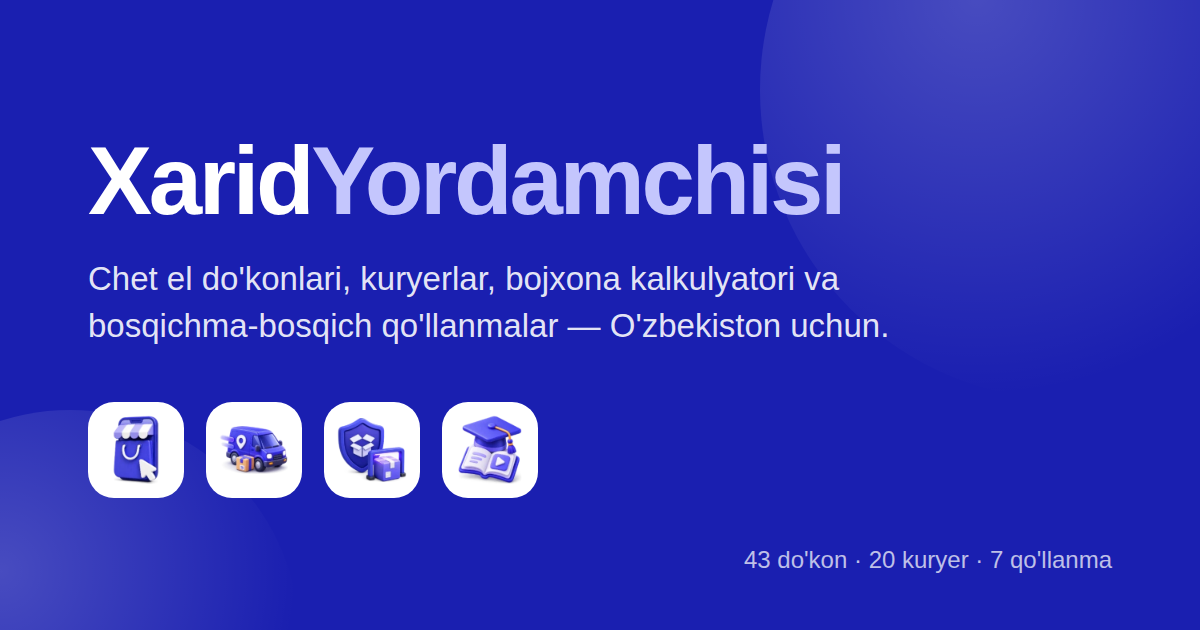
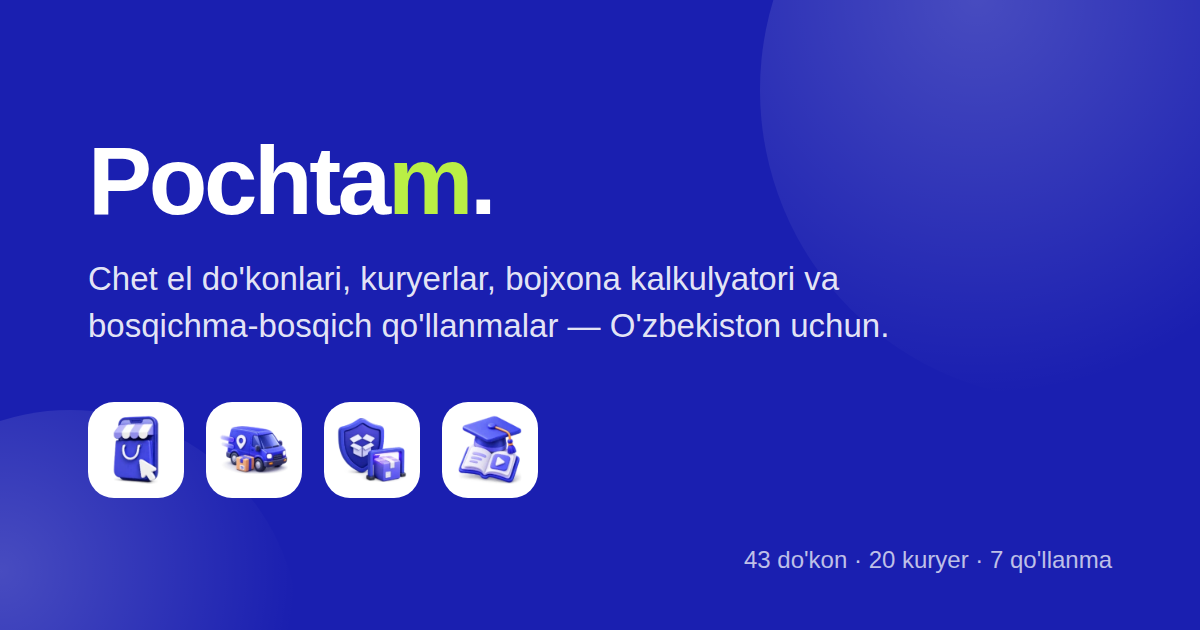
Ilova nomi hamma joyda Pochtam
Logotip "Pochtam." deb turgani holda, sarlavha, manifest, OG meta va
matnlarda eski nom qolgan edi. Endi hammasi bir xil:

  <title>, apple-mobile-web-app-title, og:site_name, og:title
  manifest.webmanifest (name va short_name)
  noscript va sozlamalardagi "Ilova haqida" matni
  xizmatlar ro'yxatidagi hamkorlik tavsifi
  qo'llanmalar sahifalari va ularning meta teglari (tools/seo.mjs)
  README, package.json, havola tekshiruvining user-agent i

OG muqovasidagi so'z-belgi logotipga moslandi: "Pochta" oq, "m" salat
(#BAEF45), nuqta oq — logotipdagi kabi.

Manba faylning nomiga (Xarid Yordamchisi v2.dc.html) tegilmadi: u
Claude Design loyihasining fayli va ilovada ko'rinmaydi.

Claude-Session: https://claude.ai/code/session_013YY2HjPmapjsnxB9N1S87s

Changed region(s): [[0.0617, 0.2111, 0.7092, 0.3619]]

diff --git a/Xarid Yordamchisi v2.dc.html b/Xarid Yordamchisi v2.dc.html
@@ -2,22 +2,22 @@
 <html lang="uz"><head>
 <meta charset="utf-8">
 <meta name="viewport" content="width=device-width, initial-scale=1, viewport-fit=cover, interactive-widget=resizes-content">
-<title>Xarid Yordamchisi — chetdan xarid qilish yo'riqnomasi</title>
+<title>Pochtam — chetdan xarid qilish yo'riqnomasi</title>
 <meta name="description" content="Chet el do'konlari, kuryerlar, bojxona kalkulyatori va bosqichma-bosqich qo'llanmalar — O'zbekiston uchun.">
 <meta name="theme-color" content="#1A1FB0">
 <meta name="apple-mobile-web-app-capable" content="yes">
 <meta name="mobile-web-app-capable" content="yes">
 <meta name="apple-mobile-web-app-status-bar-style" content="default">
-<meta name="apple-mobile-web-app-title" content="Xarid Yordamchisi">
+<meta name="apple-mobile-web-app-title" content="Pochtam">
 <meta name="format-detection" content="telephone=no">
 <link rel="icon" href="icons/icon-192.png" sizes="192x192">
 <link rel="apple-touch-icon" href="icons/apple-touch-icon.png">
 <link rel="canonical" href="https://nshakhobiddin.github.io/Pochtachi/">
 <meta property="og:type" content="website">
-<meta property="og:site_name" content="Xarid Yordamchisi">
+<meta property="og:site_name" content="Pochtam">
 <meta property="og:locale" content="uz_UZ">
 <meta property="og:url" content="https://nshakhobiddin.github.io/Pochtachi/">
-<meta property="og:title" content="Xarid Yordamchisi — chetdan xarid qilish yo'riqnomasi">
+<meta property="og:title" content="Pochtam — chetdan xarid qilish yo'riqnomasi">
 <meta property="og:description" content="Chet el do'konlari, kuryerlar, bojxona kalkulyatori va bosqichma-bosqich qo'llanmalar — O'zbekiston uchun.">
 <meta property="og:image" content="https://nshakhobiddin.github.io/Pochtachi/icons/og-cover.png">
 <meta property="og:image:width" content="1200">
@@ -105,7 +105,7 @@
 <body>
 <noscript>
   <div style="max-width:430px;margin:0 auto;padding:28px 20px;font:15px/1.6 system-ui,sans-serif;color:#131429">
-    <h1 style="font-size:22px;margin:0 0 10px">Xarid Yordamchisi</h1>
+    <h1 style="font-size:22px;margin:0 0 10px">Pochtam</h1>
     <p style="margin:0 0 14px">Ilova ishlashi uchun JavaScript kerak. Qo'llanmalarni JavaScriptsiz ham o'qishingiz mumkin:</p>
     <p style="margin:0"><a href="guides/" style="color:#1A1FB0;font-weight:600">Barcha qo'llanmalar &rarr;</a></p>
   </div>
@@ -2291,7 +2291,7 @@
 
       <div style="background:#FFFFFF;border-radius:20px;padding:18px;display:flex;flex-direction:column;gap:10px;box-shadow:0 1px 2px rgba(20,19,43,.04),0 8px 20px -12px rgba(20,19,43,.24)">
         <div style="font-size:17px;letter-spacing:-.02em;font-weight:700;color:#131429">Ilova haqida</div>
-        <div style="font-size:13px;color:#6B6C85;line-height:1.5;text-wrap:pretty">Xarid Yordamchisi — mustaqil ma'lumot xizmati. Bu rasmiy davlat portali emas va bojxona organlari bilan bog'liq emas. Barcha hisob-kitoblar taxminiy.</div>
+        <div style="font-size:13px;color:#6B6C85;line-height:1.5;text-wrap:pretty">Pochtam — mustaqil ma'lumot xizmati. Bu rasmiy davlat portali emas va bojxona organlari bilan bog'liq emas. Barcha hisob-kitoblar taxminiy.</div>
         <div style="font-size:11px;font-weight:700;color:#6B6C85;padding-top:4px;font-variant-numeric:tabular-nums">{{ appVersion }}</div>
       </div>
     </div>
@@ -3159,7 +3159,7 @@ const SERVICES = [
     items:['Ombor tizimi bilan bog\'lash','Status o\'zgarganda Telegram/SMS xabarnoma','Mijoz uchun kuzatuv sahifasi'],
     price:'Loyiha bo\'yicha' },
   { lane:'tashkilot', icon:'svc-hamkorlik', title:'Ilovada joylashish', tag:'HAMKORLIK',
-    sub:'Xarid Yordamchisi ro\'yxatida ko\'rinish va tariflarni yangilab turish.',
+    sub:'Pochtam ro\'yxatida ko\'rinish va tariflarni yangilab turish.',
     items:['Kuryerlar ro\'yxatida karta','Tarif va muddatlarni o\'z vaqtida yangilash','Yo\'nalish bo\'yicha ajratib ko\'rsatish'],
     price:'Kelishilgan holda' }
 ];

diff --git a/index.html b/index.html
@@ -3,22 +3,22 @@
 <html lang="uz"><head>
 <meta charset="utf-8">
 <meta name="viewport" content="width=device-width, initial-scale=1, viewport-fit=cover, interactive-widget=resizes-content">
-<title>Xarid Yordamchisi — chetdan xarid qilish yo'riqnomasi</title>
+<title>Pochtam — chetdan xarid qilish yo'riqnomasi</title>
 <meta name="description" content="Chet el do'konlari, kuryerlar, bojxona kalkulyatori va bosqichma-bosqich qo'llanmalar — O'zbekiston uchun.">
 <meta name="theme-color" content="#1A1FB0">
 <meta name="apple-mobile-web-app-capable" content="yes">
 <meta name="mobile-web-app-capable" content="yes">
 <meta name="apple-mobile-web-app-status-bar-style" content="default">
-<meta name="apple-mobile-web-app-title" content="Xarid Yordamchisi">
+<meta name="apple-mobile-web-app-title" content="Pochtam">
 <meta name="format-detection" content="telephone=no">
 <link rel="icon" href="icons/icon-192.png" sizes="192x192">
 <link rel="apple-touch-icon" href="icons/apple-touch-icon.png">
 <link rel="canonical" href="https://nshakhobiddin.github.io/Pochtachi/">
 <meta property="og:type" content="website">
-<meta property="og:site_name" content="Xarid Yordamchisi">
+<meta property="og:site_name" content="Pochtam">
 <meta property="og:locale" content="uz_UZ">
 <meta property="og:url" content="https://nshakhobiddin.github.io/Pochtachi/">
-<meta property="og:title" content="Xarid Yordamchisi — chetdan xarid qilish yo'riqnomasi">
+<meta property="og:title" content="Pochtam — chetdan xarid qilish yo'riqnomasi">
 <meta property="og:description" content="Chet el do'konlari, kuryerlar, bojxona kalkulyatori va bosqichma-bosqich qo'llanmalar — O'zbekiston uchun.">
 <meta property="og:image" content="https://nshakhobiddin.github.io/Pochtachi/icons/og-cover.png">
 <meta property="og:image:width" content="1200">
@@ -106,7 +106,7 @@
 <body>
 <noscript>
   <div style="max-width:430px;margin:0 auto;padding:28px 20px;font:15px/1.6 system-ui,sans-serif;color:#131429">
-    <h1 style="font-size:22px;margin:0 0 10px">Xarid Yordamchisi</h1>
+    <h1 style="font-size:22px;margin:0 0 10px">Pochtam</h1>
     <p style="margin:0 0 14px">Ilova ishlashi uchun JavaScript kerak. Qo'llanmalarni JavaScriptsiz ham o'qishingiz mumkin:</p>
     <p style="margin:0"><a href="guides/" style="color:#1A1FB0;font-weight:600">Barcha qo'llanmalar &rarr;</a></p>
   </div>
@@ -2292,7 +2292,7 @@
 
       <div style="background:#FFFFFF;border-radius:20px;padding:18px;display:flex;flex-direction:column;gap:10px;box-shadow:0 1px 2px rgba(20,19,43,.04),0 8px 20px -12px rgba(20,19,43,.24)">
         <div style="font-size:17px;letter-spacing:-.02em;font-weight:700;color:#131429">Ilova haqida</div>
-        <div style="font-size:13px;color:#6B6C85;line-height:1.5;text-wrap:pretty">Xarid Yordamchisi — mustaqil ma'lumot xizmati. Bu rasmiy davlat portali emas va bojxona organlari bilan bog'liq emas. Barcha hisob-kitoblar taxminiy.</div>
+        <div style="font-size:13px;color:#6B6C85;line-height:1.5;text-wrap:pretty">Pochtam — mustaqil ma'lumot xizmati. Bu rasmiy davlat portali emas va bojxona organlari bilan bog'liq emas. Barcha hisob-kitoblar taxminiy.</div>
         <div style="font-size:11px;font-weight:700;color:#6B6C85;padding-top:4px;font-variant-numeric:tabular-nums">{{ appVersion }}</div>
       </div>
     </div>
@@ -3160,7 +3160,7 @@ const SERVICES = [
     items:['Ombor tizimi bilan bog\'lash','Status o\'zgarganda Telegram/SMS xabarnoma','Mijoz uchun kuzatuv sahifasi'],
     price:'Loyiha bo\'yicha' },
   { lane:'tashkilot', icon:'svc-hamkorlik', title:'Ilovada joylashish', tag:'HAMKORLIK',
-    sub:'Xarid Yordamchisi ro\'yxatida ko\'rinish va tariflarni yangilab turish.',
+    sub:'Pochtam ro\'yxatida ko\'rinish va tariflarni yangilab turish.',
     items:['Kuryerlar ro\'yxatida karta','Tarif va muddatlarni o\'z vaqtida yangilash','Yo\'nalish bo\'yicha ajratib ko\'rsatish'],
     price:'Kelishilgan holda' }
 ];

diff --git a/guides/index.html b/guides/index.html
@@ -3,11 +3,11 @@
 <head>
 <meta charset="UTF-8">
 <meta name="viewport" content="width=device-width, initial-scale=1, viewport-fit=cover">
-<title>Chetdan buyurtma berish qo'llanmalari · Xarid Yordamchisi</title>
+<title>Chetdan buyurtma berish qo'llanmalari · Pochtam</title>
 <meta name="description" content="Taobao, Pinduoduo, Poizon, SHEIN, Trendyol, Amazon va eBay'dan O'zbekistonga buyurtma berish bo'yicha bosqichma-bosqich qo'llanmalar.">
 <link rel="canonical" href="https://nshakhobiddin.github.io/Pochtachi/guides/">
 <meta property="og:type" content="website">
-<meta property="og:site_name" content="Xarid Yordamchisi">
+<meta property="og:site_name" content="Pochtam">
 <meta property="og:locale" content="uz_UZ">
 <meta property="og:url" content="https://nshakhobiddin.github.io/Pochtachi/guides/">
 <meta property="og:title" content="Chetdan buyurtma berish qo'llanmalari">
@@ -115,7 +115,7 @@
         </a>
       </li>
     </ul>
-    <a class="back" href="../">← Xarid Yordamchisi ilovasiga qaytish</a>
+    <a class="back" href="../">← Pochtam ilovasiga qaytish</a>
   </main>
 </body>
 </html>

diff --git a/tools/og-cover.html b/tools/og-cover.html
@@ -8,14 +8,14 @@ body{width:1200px;height:630px;background:#1A1FB0;font-family:'Onest',sans-serif
 .g1{width:620px;height:620px;right:-180px;top:-220px}
 .g2{width:460px;height:460px;left:-160px;bottom:-240px}
 h1{font-family:'Bricolage Grotesque',sans-serif;font-weight:800;font-size:96px;line-height:1.02;letter-spacing:-.035em;position:relative}
-h1 span{color:#C4C6FD}
+h1 span{color:#BAEF45}
 p{font-size:33px;line-height:1.42;margin-top:26px;max-width:830px;color:rgba(255,255,255,.9);position:relative}
 .row{display:flex;gap:22px;margin-top:52px;position:relative}
 .row img{width:96px;height:96px;background:#fff;border-radius:26px;padding:12px;object-fit:contain}
 .tag{position:absolute;right:88px;bottom:56px;font-size:24px;color:rgba(255,255,255,.72)}
 </style>
 <div class="glow g1"></div><div class="glow g2"></div>
-<h1>Xarid<span>Yordamchisi</span></h1>
+<h1>Pochta<span>m</span>.</h1>
 <p>Chet el do'konlari, kuryerlar, bojxona kalkulyatori va bosqichma-bosqich qo'llanmalar — O'zbekiston uchun.</p>
 <div class="row">
   <img src="../icons/stores-3d.webp"><img src="../icons/courier-3d.webp">

diff --git a/guides/inline/shein.html b/guides/inline/shein.html
@@ -11,7 +11,7 @@
 <meta name="description" content="SHEIN dan O'zbekistonga buyurtma berish: To'g'ridan-to'g'ri pochta orqali yoki oraliq manzil bilan, o'lcham xatolari va qaytarish. 9 bo'lim, ekran maketlari, bojxona kalkulyatori va lug'at bilan.">
 <link rel="canonical" href="https://nshakhobiddin.github.io/Pochtachi/guides/inline/shein.html">
 <meta property="og:type" content="article">
-<meta property="og:site_name" content="Xarid Yordamchisi">
+<meta property="og:site_name" content="Pochtam">
 <meta property="og:locale" content="uz_UZ">
 <meta property="og:url" content="https://nshakhobiddin.github.io/Pochtachi/guides/inline/shein.html">
 <meta property="og:title" content="SHEIN → O'zbekiston: bosqichma-bosqich qo'llanma">
@@ -27,7 +27,7 @@
 <body>
 <!-- seo:start -->
 <nav id="site-bar" hidden aria-label="Sayt">
-  <a href="../../">Xarid Yordamchisi</a>
+  <a href="../../">Pochtam</a>
   <span aria-hidden="true">·</span>
   <a href="../">Barcha qo'llanmalar</a>
   <span aria-hidden="true">·</span>

diff --git a/guides/inline/poizon.html b/guides/inline/poizon.html
@@ -11,7 +11,7 @@
 <meta name="description" content="Poizon (Dewu) dan O'zbekistonga buyurtma berish: Autentifikatsiya yorlig'i, krossovka o'lchami, vositachi tanlash. 10 bo'lim, ekran maketlari, bojxona kalkulyatori va lug'at bilan.">
 <link rel="canonical" href="https://nshakhobiddin.github.io/Pochtachi/guides/inline/poizon.html">
 <meta property="og:type" content="article">
-<meta property="og:site_name" content="Xarid Yordamchisi">
+<meta property="og:site_name" content="Pochtam">
 <meta property="og:locale" content="uz_UZ">
 <meta property="og:url" content="https://nshakhobiddin.github.io/Pochtachi/guides/inline/poizon.html">
 <meta property="og:title" content="Poizon (Dewu) → O'zbekiston: bosqichma-bosqich qo'llanma">
@@ -27,7 +27,7 @@
 <body>
 <!-- seo:start -->
 <nav id="site-bar" hidden aria-label="Sayt">
-  <a href="../../">Xarid Yordamchisi</a>
+  <a href="../../">Pochtam</a>
   <span aria-hidden="true">·</span>
   <a href="../">Barcha qo'llanmalar</a>
   <span aria-hidden="true">·</span>

diff --git a/guides/inline/pinduoduo.html b/guides/inline/pinduoduo.html
@@ -11,7 +11,7 @@
 <meta name="description" content="Pinduoduo dan O'zbekistonga buyurtma berish: Guruh xaridi mexanikasi, xitoycha lug'at, eng arzon yo'nalish. 9 bo'lim, ekran maketlari, bojxona kalkulyatori va lug'at bilan.">
 <link rel="canonical" href="https://nshakhobiddin.github.io/Pochtachi/guides/inline/pinduoduo.html">
 <meta property="og:type" content="article">
-<meta property="og:site_name" content="Xarid Yordamchisi">
+<meta property="og:site_name" content="Pochtam">
 <meta property="og:locale" content="uz_UZ">
 <meta property="og:url" content="https://nshakhobiddin.github.io/Pochtachi/guides/inline/pinduoduo.html">
 <meta property="og:title" content="Pinduoduo → O'zbekiston: bosqichma-bosqich qo'llanma">
@@ -27,7 +27,7 @@
 <body>
 <!-- seo:start -->
 <nav id="site-bar" hidden aria-label="Sayt">
-  <a href="../../">Xarid Yordamchisi</a>
+  <a href="../../">Pochtam</a>
   <span aria-hidden="true">·</span>
   <a href="../">Barcha qo'llanmalar</a>
   <span aria-hidden="true">·</span>

diff --git a/guides/inline/trendyol.html b/guides/inline/trendyol.html
@@ -11,7 +11,7 @@
 <meta name="description" content="Trendyol dan O'zbekistonga buyurtma berish: Turk manzili, KDV qaytarilishi, beden tablosu va lug'at. 9 bo'lim, ekran maketlari, bojxona kalkulyatori va lug'at bilan.">
 <link rel="canonical" href="https://nshakhobiddin.github.io/Pochtachi/guides/inline/trendyol.html">
 <meta property="og:type" content="article">
-<meta property="og:site_name" content="Xarid Yordamchisi">
+<meta property="og:site_name" content="Pochtam">
 <meta property="og:locale" content="uz_UZ">
 <meta property="og:url" content="https://nshakhobiddin.github.io/Pochtachi/guides/inline/trendyol.html">
 <meta property="og:title" content="Trendyol → O'zbekiston: bosqichma-bosqich qo'llanma">
@@ -27,7 +27,7 @@
 <body>
 <!-- seo:start -->
 <nav id="site-bar" hidden aria-label="Sayt">
-  <a href="../../">Xarid Yordamchisi</a>
+  <a href="../../">Pochtam</a>
   <span aria-hidden="true">·</span>
   <a href="../">Barcha qo'llanmalar</a>
   <span aria-hidden="true">·</span>

diff --git a/guides/inline/taobao.html b/guides/inline/taobao.html
@@ -11,7 +11,7 @@
 <meta name="description" content="Taobao dan O'zbekistonga buyurtma berish: Rasm orqali qidiruv, Alipay to'lovi, kuryer ombori va bojxona. 10 bo'lim, ekran maketlari, bojxona kalkulyatori va lug'at bilan.">
 <link rel="canonical" href="https://nshakhobiddin.github.io/Pochtachi/guides/inline/taobao.html">
 <meta property="og:type" content="article">
-<meta property="og:site_name" content="Xarid Yordamchisi">
+<meta property="og:site_name" content="Pochtam">
 <meta property="og:locale" content="uz_UZ">
 <meta property="og:url" content="https://nshakhobiddin.github.io/Pochtachi/guides/inline/taobao.html">
 <meta property="og:title" content="Taobao → O'zbekiston: bosqichma-bosqich qo'llanma">
@@ -27,7 +27,7 @@
 <body>
 <!-- seo:start -->
 <nav id="site-bar" hidden aria-label="Sayt">
-  <a href="../../">Xarid Yordamchisi</a>
+  <a href="../../">Pochtam</a>
   <span aria-hidden="true">·</span>
   <a href="../">Barcha qo'llanmalar</a>
   <span aria-hidden="true">·</span>

diff --git a/guides/inline/amazon.html b/guides/inline/amazon.html
@@ -11,7 +11,7 @@
 <meta name="description" content="Amazon dan O'zbekistonga buyurtma berish: AQSh manzili, sales tax 0% shtatlari, US o'lchamlari. 10 bo'lim, ekran maketlari, bojxona kalkulyatori va lug'at bilan.">
 <link rel="canonical" href="https://nshakhobiddin.github.io/Pochtachi/guides/inline/amazon.html">
 <meta property="og:type" content="article">
-<meta property="og:site_name" content="Xarid Yordamchisi">
+<meta property="og:site_name" content="Pochtam">
 <meta property="og:locale" content="uz_UZ">
 <meta property="og:url" content="https://nshakhobiddin.github.io/Pochtachi/guides/inline/amazon.html">
 <meta property="og:title" content="Amazon → O'zbekiston: bosqichma-bosqich qo'llanma">
@@ -27,7 +27,7 @@
 <body>
 <!-- seo:start -->
 <nav id="site-bar" hidden aria-label="Sayt">
-  <a href="../../">Xarid Yordamchisi</a>
+  <a href="../../">Pochtam</a>
   <span aria-hidden="true">·</span>
   <a href="../">Barcha qo'llanmalar</a>
   <span aria-hidden="true">·</span>

diff --git a/guides/inline/ebay.html b/guides/inline/ebay.html
@@ -11,7 +11,7 @@
 <meta name="description" content="eBay dan O'zbekistonga buyurtma berish: Auksion strategiyasi, eIS orqali to'g'ridan yetkazish. 9 bo'lim, ekran maketlari, bojxona kalkulyatori va lug'at bilan.">
 <link rel="canonical" href="https://nshakhobiddin.github.io/Pochtachi/guides/inline/ebay.html">
 <meta property="og:type" content="article">
-<meta property="og:site_name" content="Xarid Yordamchisi">
+<meta property="og:site_name" content="Pochtam">
 <meta property="og:locale" content="uz_UZ">
 <meta property="og:url" content="https://nshakhobiddin.github.io/Pochtachi/guides/inline/ebay.html">
 <meta property="og:title" content="eBay → O'zbekiston: bosqichma-bosqich qo'llanma">
@@ -27,7 +27,7 @@
 <body>
 <!-- seo:start -->
 <nav id="site-bar" hidden aria-label="Sayt">
-  <a href="../../">Xarid Yordamchisi</a>
+  <a href="../../">Pochtam</a>
   <span aria-hidden="true">·</span>
   <a href="../">Barcha qo'llanmalar</a>
   <span aria-hidden="true">·</span>

diff --git a/guides/guide-common.css b/guides/guide-common.css
@@ -1,5 +1,5 @@
 /* Umumiy qo'llanma uslublari — bosib chiqarish, animatsiya va yordamchi sinflar. Manba: guides/inline/*.html dan ajratildi. */
-/* XaridYordamchisi ilovasi ichida ochilganda qo'llanmani ilova dizayniga moslash */
+/* Pochtam ilovasi ichida ochilganda qo'llanmani ilova dizayniga moslash */
 /* Shriftlar <head> dagi <link> orqali bloklamasdan yuklanadi (tools/seo.mjs). */
 
 :root{
